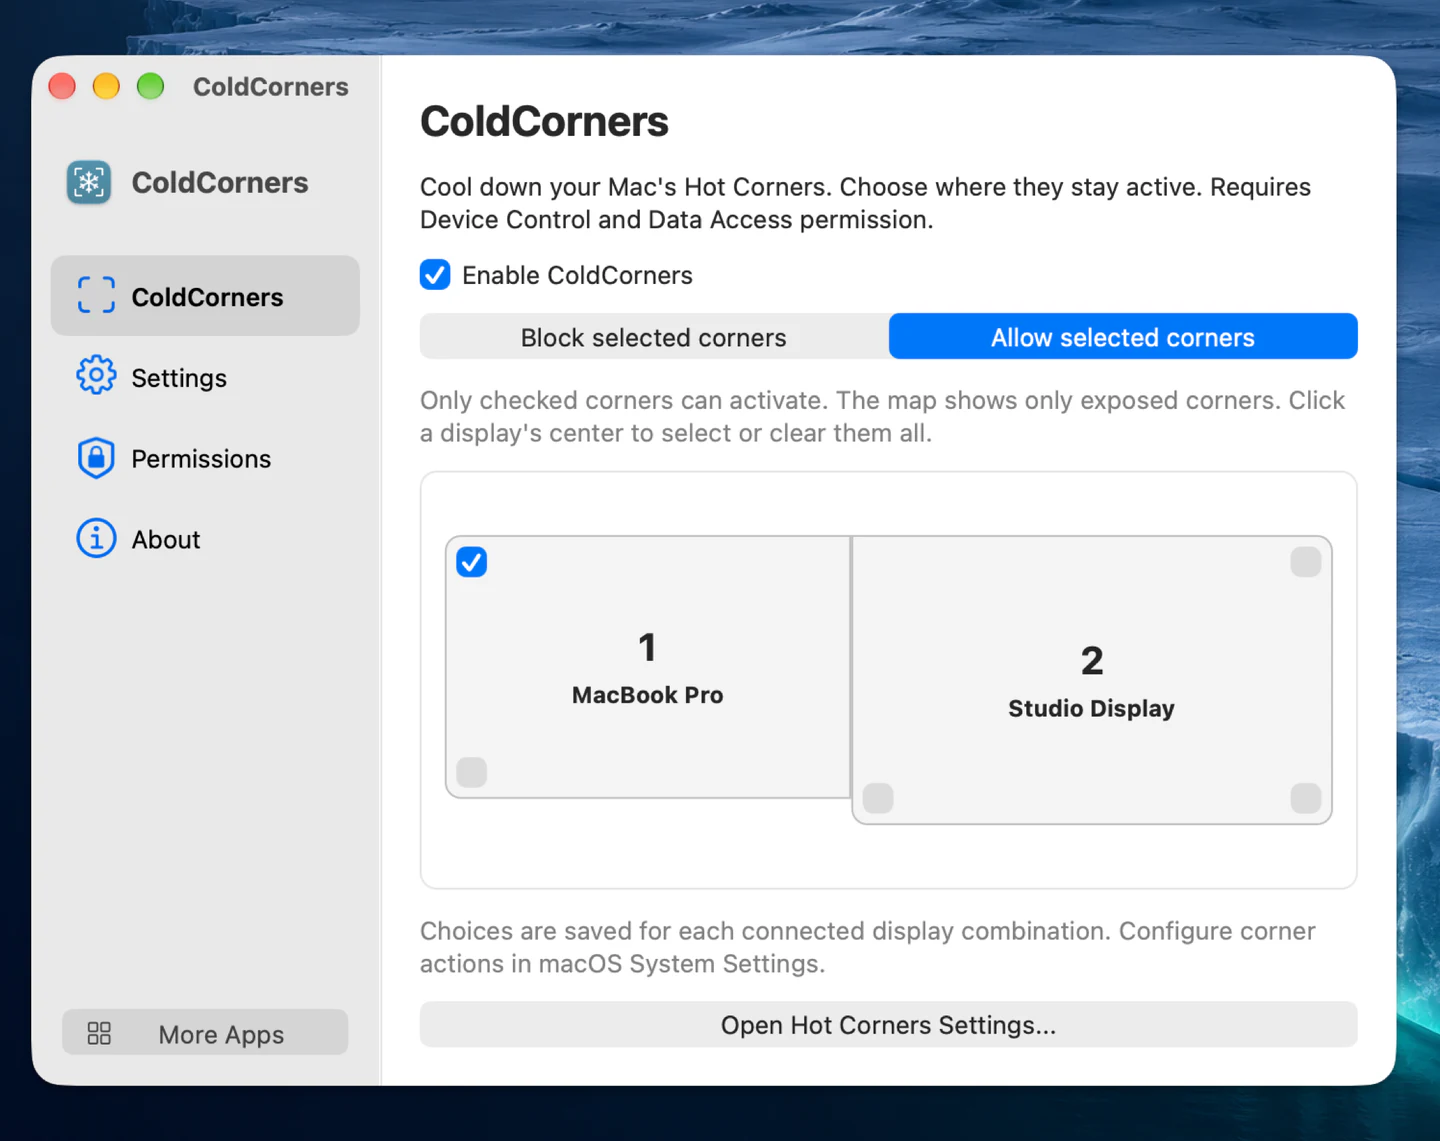
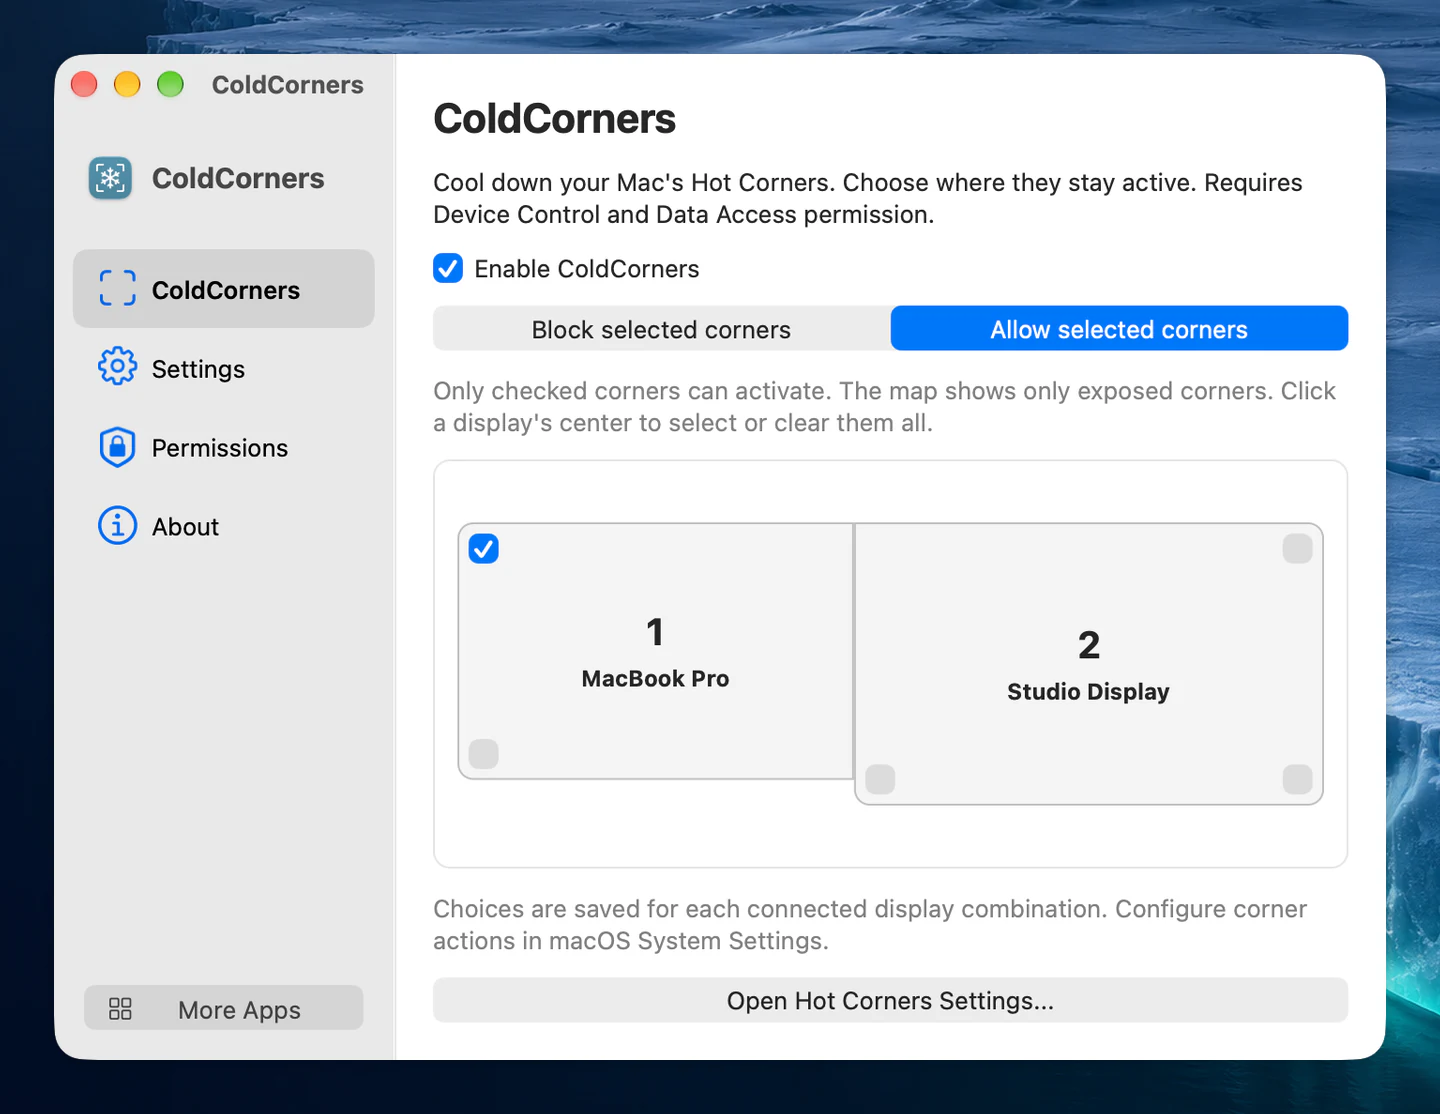
Center the homepage screenshot and update the support email

diff --git a/README.md b/README.md
@@ -6,4 +6,4 @@ Cloudflare Workers Builds deploys this repository to the `coldcorners-website` W
 
 Use Node.js 22 or later. Install the pinned dependencies with `npm ci`, start a local server with `npm run dev`, and run the production build, TypeScript check, and Wrangler deployment dry run with `npm run check`.
 
-Plausible tracks `coldcorners.app` through the existing `analytics.reverseeverything.com` endpoint. Support uses the existing `support@cornerlock.app` mailbox. The favicon and site icon come from the Mac app. The menu bar symbols use its original SVG artwork. The gallery publishes optimized copies of the four English v1.0 screenshots from the local Fastline folder. Each links to its full 2880 by 1800 image. The FAQ uses the original Settings captures, and the homepage share card uses the display map.
+Plausible tracks `coldcorners.app` through the existing `analytics.reverseeverything.com` endpoint. The support address is `support@docklock.pro`. The favicon and site icon come from the Mac app. The menu bar symbols use its original SVG artwork. The gallery publishes optimized copies of the four English v1.0 screenshots from the local Fastline folder. Each links to its full 2880 by 1800 image. The FAQ uses the original Settings captures, and the homepage share card uses the display map.
